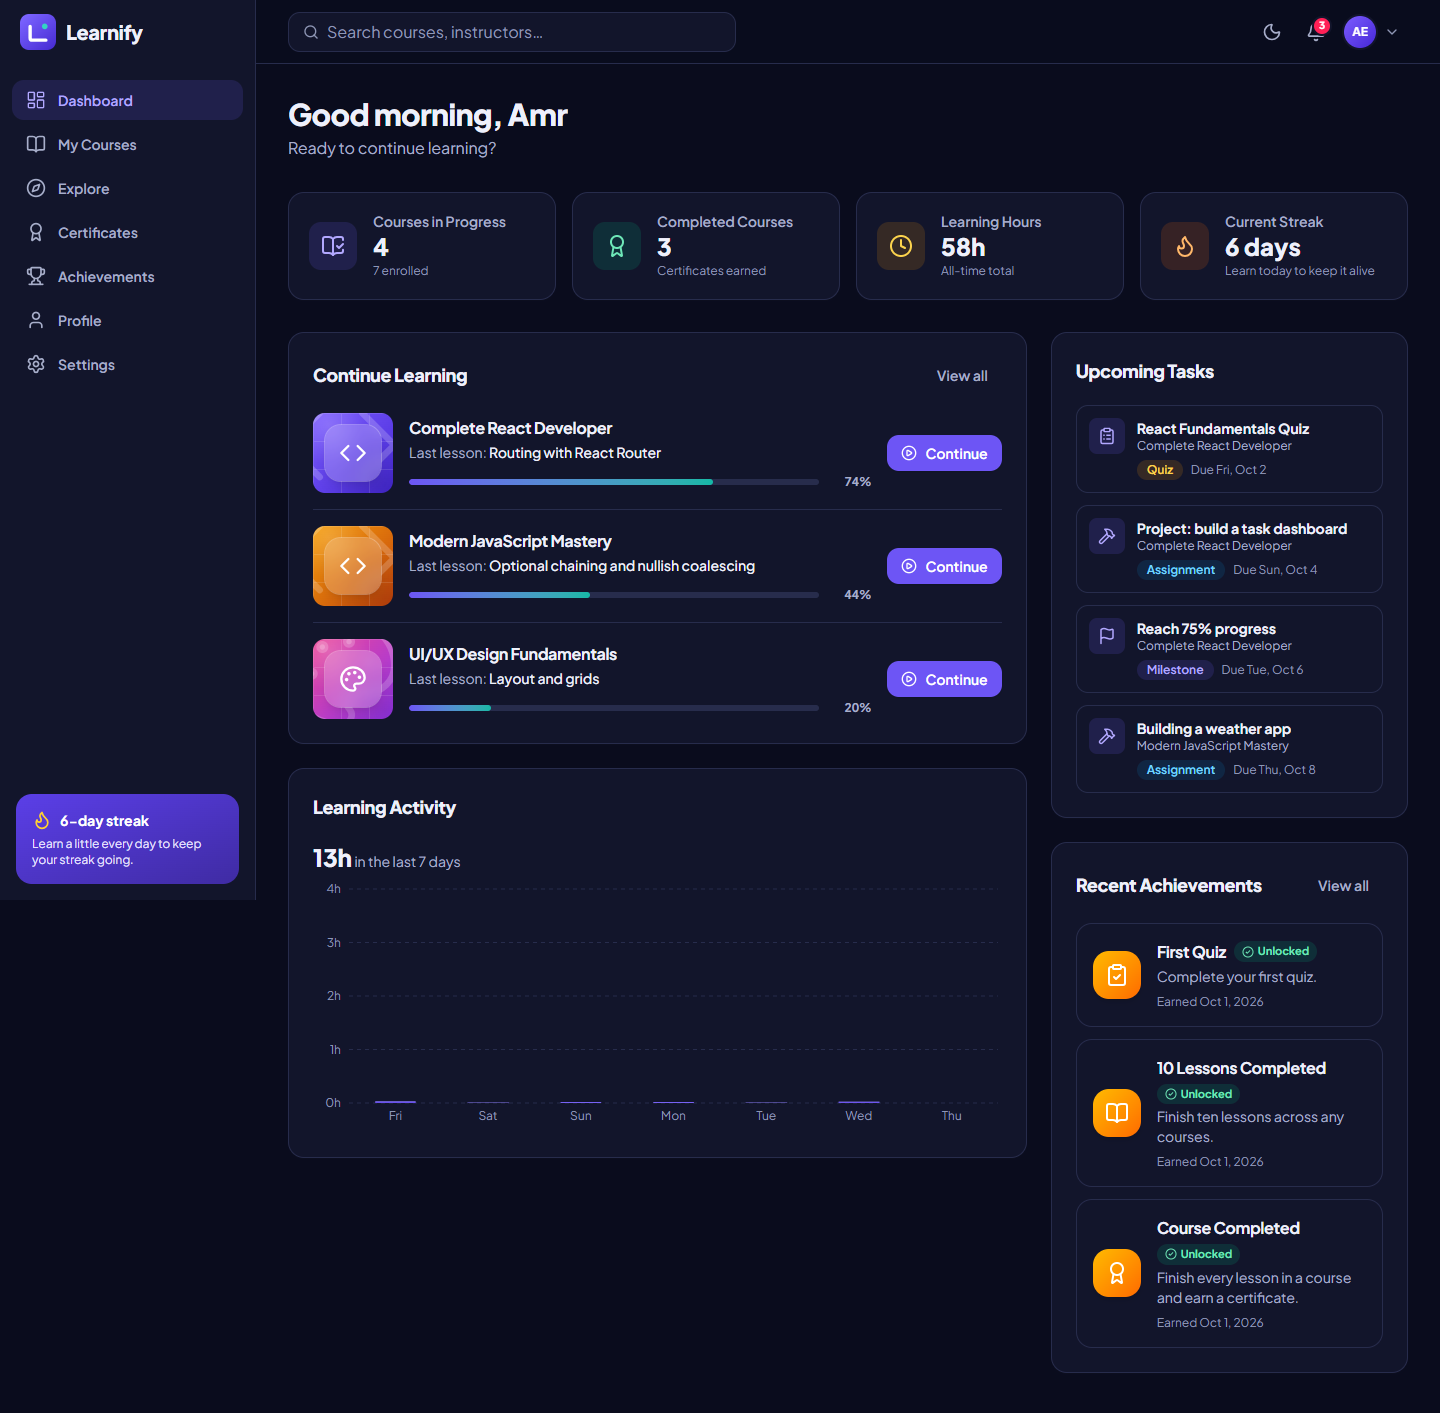
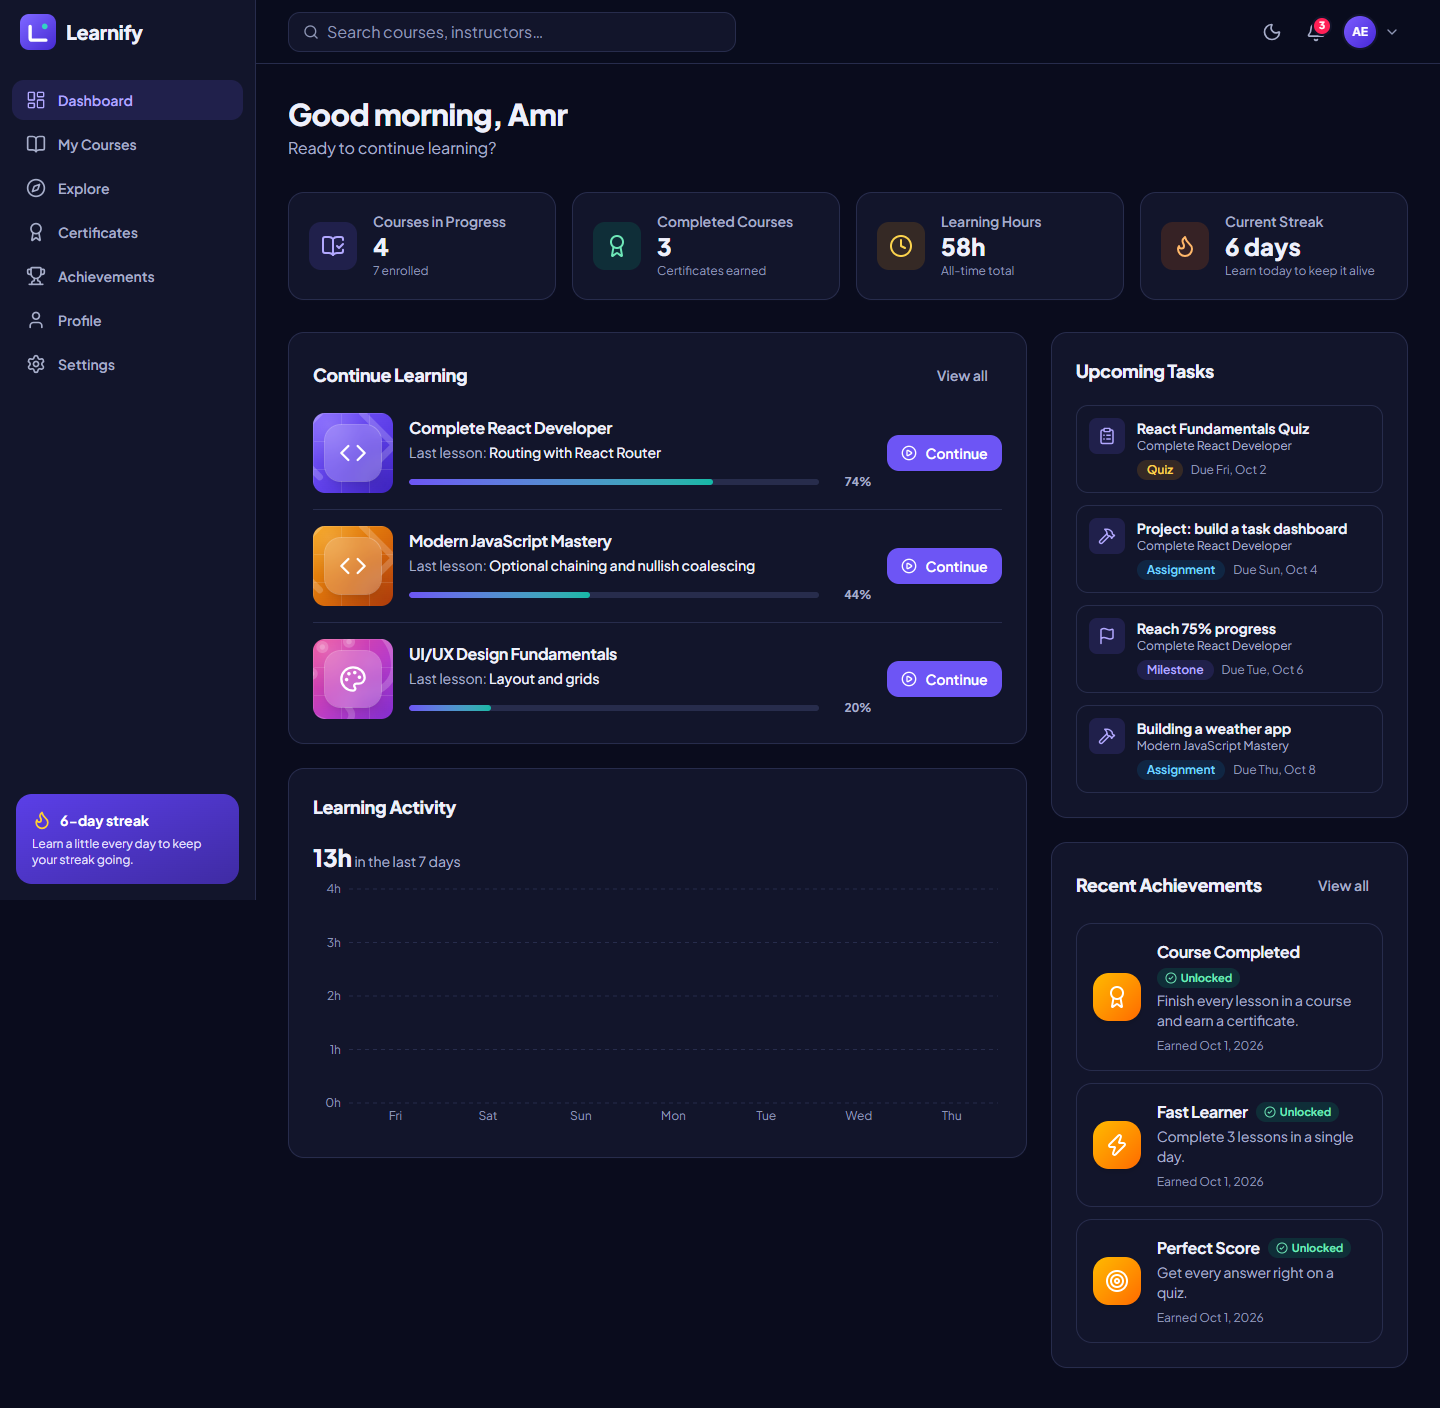
Prepare production README, license, and screenshots

diff --git a/src/lib/resume.ts b/src/lib/resume.ts
@@ -5,7 +5,7 @@ import { useProgressStore } from '@/store/progressStore'
  * The lesson a learner should open next: the one they were on if unfinished, otherwise the next
  * unfinished lesson after it, otherwise the first unfinished lesson (or the start once complete).
  */
-export const getResumeLessonId = (
+const getResumeLessonId = (
   courseId: string,
   completedIds: string[] = [],
   lastLessonId?: string,
@@ -21,7 +21,7 @@ export const getResumeLessonId = (
   return (next ?? lessons[Math.max(lastIndex, 0)])?.id
 }
 
-export const learnPath = (courseId: string, lessonId?: string) =>
+const learnPath = (courseId: string, lessonId?: string) =>
   lessonId ? `/learn/${courseId}/${lessonId}` : `/courses/${courseId}`
 
 /** Path a "Continue" button should point to for a course. */

diff --git a/src/components/common/Skeleton.tsx b/src/components/common/Skeleton.tsx
@@ -14,7 +14,7 @@ export function Skeleton({ className }: SkeletonProps) {
   )
 }
 
-export function CourseCardSkeleton() {
+function CourseCardSkeleton() {
   return (
     <div className="card overflow-hidden" aria-hidden="true">
       <Skeleton className="aspect-[16/10] rounded-none" />
@@ -80,16 +80,6 @@ export function CourseDetailsSkeleton() {
         <Skeleton className="h-72 rounded-2xl" />
       </div>
       <Skeleton className="h-64 rounded-2xl" />
-    </div>
-  )
-}
-
-export function ListSkeleton({ rows = 4 }: { rows?: number }) {
-  return (
-    <div role="status" aria-label="Loading" className="space-y-3">
-      {Array.from({ length: rows }, (_, index) => (
-        <Skeleton key={index} className="h-24 rounded-2xl" />
-      ))}
     </div>
   )
 }

diff --git a/src/data/users.ts b/src/data/users.ts
@@ -35,7 +35,7 @@ export const demoCompletions: { courseId: string; daysAgo: number }[] = [
 export const demoFavorites = ['generative-ai-for-professionals', 'machine-learning-foundations']
 
 /** Weekly learning pattern (hours) applied per weekday, Sunday → Saturday. */
-export const demoWeeklyHours = [2, 2, 1, 3, 2, 4, 1]
+const demoWeeklyHours = [2, 2, 1, 3, 2, 4, 1]
 
 /** Helper exported for seeding; builds a realistic study log for the last `days` days. */
 export const buildDemoStudyLog = (

diff --git a/src/lib/stats.ts b/src/lib/stats.ts
@@ -19,7 +19,7 @@ interface StatsInput {
 }
 
 /** Consecutive active days ending today (or yesterday, so the streak survives until midnight). */
-export const computeStreak = (studyLog: Record<string, StudyDay>, today: Date = new Date()) => {
+const computeStreak = (studyLog: Record<string, StudyDay>, today: Date = new Date()) => {
   const isActive = (key: string) => {
     const day = studyLog[key]
     return !!day && (day.minutes > 0 || day.lessons > 0)

diff --git a/src/lib/storage.ts b/src/lib/storage.ts
@@ -41,7 +41,7 @@ export const storage = {
 }
 
 /** Adapter so Zustand's persist middleware goes through the same guarded, namespaced storage. */
-export const persistStorage: StateStorage = {
+const persistStorage: StateStorage = {
   getItem: (name) => safe(() => window.localStorage.getItem(PREFIX + name), null),
   setItem: (name, value) =>
     safe(() => window.localStorage.setItem(PREFIX + name, value), undefined),

diff --git a/src/lib/tones.ts b/src/lib/tones.ts
@@ -1,7 +1,7 @@
 import type { Tone } from '@/types'
 
 /** Gradient stops per tone, shared by generated thumbnails, avatars, and category tiles. */
-export const toneGradients: Record<Tone, [string, string]> = {
+const toneGradients: Record<Tone, [string, string]> = {
   violet: ['#7c5cff', '#4527d6'],
   blue: ['#3b82f6', '#1d4ed8'],
   teal: ['#14b8a6', '#0f766e'],

diff --git a/src/utils/format.ts b/src/utils/format.ts
@@ -36,6 +36,3 @@ export const pluralize = (count: number, singular: string, plural = `${singular}
 
 export const clamp = (value: number, min: number, max: number) =>
   Math.min(max, Math.max(min, value))
-
-export const toPercent = (part: number, total: number) =>
-  total === 0 ? 0 : Math.round((part / total) * 100)

diff --git a/src/data/lessons.ts b/src/data/lessons.ts
@@ -476,5 +476,3 @@ export const getLessons = (courseId: string): Lesson[] =>
 
 export const getLesson = (courseId: string, lessonId: string) =>
   getLessons(courseId).find((lesson) => lesson.id === lessonId)
-
-export const getCourseIdsWithCurriculum = () => Object.keys(curricula)

diff --git a/src/store/quizStore.ts b/src/store/quizStore.ts
@@ -24,5 +24,3 @@ export const useQuizStore = create<QuizState>()(
     { name: 'quizzes', storage: persistJson },
   ),
 )
-
-export const latestAttempt = (attempts: QuizResult[] | undefined) => attempts?.at(-1)

diff --git a/README.md b/README.md
@@ -1,32 +1,189 @@
-# React + TypeScript + Vite
+# Learnify
 
-This template provides a minimal setup to get React working in Vite with HMR and some Oxlint rules.
+**Learn smarter. Grow faster.**
 
-Currently, two official plugins are available:
+Modern Educational Platform built with React and TypeScript.
 
-- [@vitejs/plugin-react](https://github.com/vitejs/vite-plugin-react/blob/main/packages/plugin-react) uses [Oxc](https://oxc.rs)
-- [@vitejs/plugin-react-swc](https://github.com/vitejs/vite-plugin-react/blob/main/packages/plugin-react-swc) uses [SWC](https://swc.rs/)
+> **Learnify is a front-end-only educational platform built with mock data and browser-based persistence.**
+> There is no backend, database, or real authentication. Everything runs in the browser, and all courses, people, reviews, and statistics are fictional demo data.
 
-## React Compiler
+![Learnify landing page](docs/screenshots/home-light.png)
 
-The React Compiler is not enabled on this template because of its impact on dev & build performances. To add it, see [this documentation](https://react.dev/learn/react-compiler/installation).
+## Features
 
-## Expanding the Oxlint configuration
+**Public website**
 
-If you are developing a production application, we recommend enabling type-aware lint rules by installing `oxlint-tsgolint` and editing `.oxlintrc.json`:
+- Marketing landing page: hero with product preview, stats, popular courses, categories, "Why Learnify", top instructors, testimonials, CTA, and footer
+- Course catalogue with live search, category chips, filters (level, rating, duration, price), five sort orders, and client-side pagination
+- Course details: hero, "What you'll learn", requirements, expandable curriculum, instructor, star-filterable reviews, and a demo enrollment flow
+- Categories, category pages, instructors, and instructor profiles
+- Login and register with React Hook Form + Zod validation, a "Use Demo Account" shortcut, forgot-password modal, and "Remember me"
 
-```json
-{
-  "$schema": "./node_modules/oxlint/configuration_schema.json",
-  "plugins": ["react", "typescript", "oxc"],
-  "options": {
-    "typeAware": true
-  },
-  "rules": {
-    "react/rules-of-hooks": "error",
-    "react/only-export-components": ["warn", { "allowConstantExport": true }]
-  }
-}
+**Student application**
+
+- Dashboard: greeting, stat cards, continue learning, weekly activity chart (Recharts), upcoming tasks, and recent achievements
+- My Courses with All / In Progress / Completed / Saved tabs
+- Learning page: curriculum sidebar (drawer on mobile), custom video-player UI, notes, resources, previous / next navigation, and **Mark as Complete** with persisted progress
+- Quiz system: question navigator, answer selection, submit guard, timer, results screen, and a full answer review with explanations
+- Certificates: polished certificate design, full-size viewer, and print / save as PDF (client-side)
+- Achievements: ten badges with locked / unlocked state and live progress
+- Profile editing and Settings (account, appearance, notifications, preferences)
+- Notification center with mark as read, mark all as read, and delete
+
+**Product details**
+
+- Light, dark, and system themes, applied before first paint to avoid a flash
+- Global search with debounced results, loading skeletons, empty state, keyboard navigation, and persisted recent searches
+- Skeleton loading, empty states, and a reusable error state with retry (try appending `?simulate=error` to `/courses`, `/dashboard`, `/my-courses`, or a course page)
+- Toast notifications, accessible modals and drawers (native `<dialog>`), menus, tabs, and switches
+
+## Screenshots
+
+| Dashboard (dark) | Course catalogue |
+| --- | --- |
+| ![Dashboard in dark mode](docs/screenshots/dashboard-dark.png) | ![Course catalogue](docs/screenshots/courses.png) |
+
+| Learning page (dark) | Quiz |
+| --- | --- |
+| ![Learning page](docs/screenshots/learn.png) | ![Quiz](docs/screenshots/quiz.png) |
+
+| Certificates | Course details |
+| --- | --- |
+| ![Certificates](docs/screenshots/certificates.png) | ![Course details](docs/screenshots/course-details.png) |
+
+| Achievements | Profile |
+| --- | --- |
+| ![Achievements](docs/screenshots/achievements.png) | ![Profile](docs/screenshots/profile.png) |
+
+**Mobile**
+
+| Home | Courses | Dashboard | Learning |
+| --- | --- | --- | --- |
+| ![Mobile home](docs/screenshots/mobile-home.png) | ![Mobile courses](docs/screenshots/mobile-courses.png) | ![Mobile dashboard](docs/screenshots/mobile-dashboard.png) | ![Mobile learning page](docs/screenshots/mobile-learn.png) |
+
+## Tech Stack
+
+| Area | Choice |
+| --- | --- |
+| Framework | React 19, TypeScript (strict), Vite |
+| Styling | Tailwind CSS v4 with a token-based design system (light + dark) |
+| Routing | React Router v7 (data router, lazy-loaded routes) |
+| State | Zustand (with `persist` middleware) |
+| Forms | React Hook Form + Zod |
+| Charts | Recharts |
+| Icons | Lucide React |
+| Dates | date-fns |
+| Font | Plus Jakarta Sans (self-hosted via Fontsource) |
+| Linting | oxlint |
+
+No backend, no API server, no UI kit. Every dependency is used.
+
+## Project Structure
+
+```text
+src/
+├── components/
+│   ├── common/        Button, Input, Modal, Drawer, Menu, Popover, Tabs, Badge, Avatar, Skeleton, ...
+│   ├── course/        CourseCard, CourseGrid, CourseHeader, CourseCurriculum, CourseReviews, InstructorCard, ...
+│   ├── learning/      VideoPlayer, LessonSidebar, LessonNavigation, ProgressBar, ResourceList, LessonNotes
+│   ├── quiz/          QuizQuestion, QuizProgress, QuizNavigation, QuizResult, AnswerReview
+│   ├── dashboard/     StatCard, ActivityChart, ContinueLearning, AchievementCard
+│   ├── certificate/   CertificateView, CertificateCard
+│   ├── search/        SearchBox, SearchPanel
+│   └── ...            auth, home, notifications, profile, settings
+├── data/              Typed mock data: courses, instructors, categories, lessons, quizzes, achievements, ...
+├── hooks/             useDismiss, useSimulatedLoading
+├── layouts/           PublicLayout, AuthLayout, AppLayout (sidebar, top bar, bottom tabs, drawer)
+├── lib/               storage, search, filters, stats, achievements, seeding, schemas, session
+├── pages/             One file per route, lazy-loaded
+├── routes/            Router, route guards, root shell and error boundary
+├── store/             Zustand stores (auth, course, progress, quiz, achievement, notification, settings, theme, search, toast)
+├── types/             Shared TypeScript types
+├── utils/             cn, date and format helpers
+├── App.tsx
+├── main.tsx
+└── index.css          Design tokens (Tailwind @theme) and base styles
 ```
 
-See the [Oxlint rules documentation](https://oxc.rs/docs/guide/usage/linter/rules) for the full list of rules and categories.
+## Installation
+
+```bash
+git clone https://github.com/amroA12/Educational-Platform.git
+cd Educational-Platform
+npm install
+npm run dev
+```
+
+Open the URL printed in the terminal (usually http://localhost:5173), then choose **Use Demo Account** on the login page to explore a populated student profile (Amr Elzaygh, `amr@example.com`). Any email with a password of 6+ characters also signs in, and **Register** creates an empty account so you can see empty states.
+
+## Available Scripts
+
+| Script | Description |
+| --- | --- |
+| `npm run dev` | Start the Vite dev server |
+| `npm run build` | Type-check and create a production build in `dist/` |
+| `npm run preview` | Preview the production build locally |
+| `npm run typecheck` | Run the TypeScript compiler without emitting files |
+| `npm run lint` | Lint the project with oxlint |
+
+## Architecture
+
+**Design system.** Tokens live in `src/index.css`. Raw scales (brand palette, radius, shadows, motion) are defined with Tailwind v4 `@theme`; semantic tokens (`bg-surface`, `text-fg-muted`, `border-line`, `bg-primary`, ...) are CSS variables that swap between light and dark. Components use the semantic names, so almost nothing needs a `dark:` variant and every page stays consistent.
+
+**State.** Global state is limited to what is genuinely shared and persistent: `auth`, `courses` (favorites and enrollments), `progress` (completed lessons, last lesson, study log, notes), `quizzes`, `achievements`, `notifications`, `settings`, `theme`, and `recent-searches`. Everything else (filters, tabs, open dialogs, the quiz in progress) is local React state. A small subscription module (`lib/achievementSync.ts`) unlocks achievements and creates progress notifications in response to store changes, so gamification stays decoupled from the UI.
+
+**Persistence.** `lib/storage.ts` is the only code that touches `localStorage`/`sessionStorage`. Every call is guarded for private mode and quota errors, and Zustand's `persist` middleware goes through the same namespaced adapter. "Remember me" decides whether the session lives in `localStorage` or `sessionStorage`.
+
+| Key | Contents |
+| --- | --- |
+| `learnify:theme` | Light / dark / system |
+| `learnify:auth` | Demo session and saved profiles (profile edits persist across sign-outs) |
+| `learnify:courses` | Favorites and enrollments |
+| `learnify:progress` | Completed lessons, last lesson, completion dates, study log, notes |
+| `learnify:quizzes` | Every quiz attempt |
+| `learnify:achievements` | Unlock dates |
+| `learnify:notifications` | Notification center items |
+| `learnify:settings` | Notification and learning preferences |
+| `learnify:recent-searches` | Recent global searches |
+
+**Demo data.** The demo student is seeded once, the first time the demo account signs in. Settings → Account → *Reset all local data* clears every key and starts over. Because there is no server, "network" latency is simulated with short delays (`lib/async.ts`, `hooks/useSimulatedLoading.ts`) so skeletons, loading buttons, and error states are part of the real UX.
+
+**Routing.** Routes are lazy-loaded with a Suspense fallback. Three layouts (public, auth, app) and two guards (`RequireAuth`, `GuestOnly`) keep route definitions declarative. Unknown routes and runtime errors have dedicated UI.
+
+**Generated visuals.** Course thumbnails, avatars, and the certificate are rendered with CSS and SVG, so the project has no remote images and works offline.
+
+## Front-End Concepts Demonstrated
+
+- Component architecture: small, reusable components (one `CourseCard` for every list, shared form field chrome, polymorphic button / link-button)
+- TypeScript: strict mode, discriminated unions, typed stores, inferred form types from Zod schemas, no `any`
+- State management: scoped Zustand stores, selectors that return primitives, derived data computed with `useMemo`
+- Forms and validation: React Hook Form + Zod with accessible, inline error messages
+- Routing: nested layouts, route guards with redirect-back, lazy loading, error boundary
+- Responsive design: desktop sidebar vs. mobile bottom tab bar and drawers, filter drawer, mobile-first grids, tested at 375, 390, 768, 1024, 1280, and 1440 px
+- Accessibility: semantic landmarks, labelled controls, visible focus, keyboard navigation (menus, tabs, search combobox, video player), `aria-live` toasts, native `<dialog>`, status shown with icons and text rather than colour alone, `prefers-reduced-motion` support
+- Performance: route-level code splitting, memoized card component, derived selectors, no layout-shifting images
+- Data visualisation: a themed Recharts bar chart with a screen-reader table alternative
+- Local persistence: guarded storage layer, "remember me", seeded demo data, reset flow
+- Gamification: achievements, streaks, and certificates derived from real learner activity
+
+## Quality checks
+
+During development the app was checked with the TypeScript compiler (strict), oxlint, an axe-core accessibility scan of every route in light and dark mode (no violations), an automated layout sweep for horizontal overflow at 375, 390, 768, 1024, 1280, and 1440 px, console-error monitoring, and scripted end-to-end flows covering search, filtering, enrollment, progress persistence, quizzes, notifications, theme, and profile editing.
+
+## Future Improvements
+
+- Real authentication and a backend API (the stores and `data/` layer are shaped to be swapped for API calls)
+- Real video hosting with captions and transcripts
+- Unit and component tests (Vitest and Testing Library) and Playwright end-to-end tests
+- Internationalisation, including right-to-left layouts
+- Instructor and admin dashboards
+- Discussion threads and per-lesson comments
+- Progressive Web App support for offline learning
+
+## Author
+
+**Amr Elzaygh**
+
+- GitHub: [@amroA12](https://github.com/amroA12)
+
+Released under the [MIT License](LICENSE).
